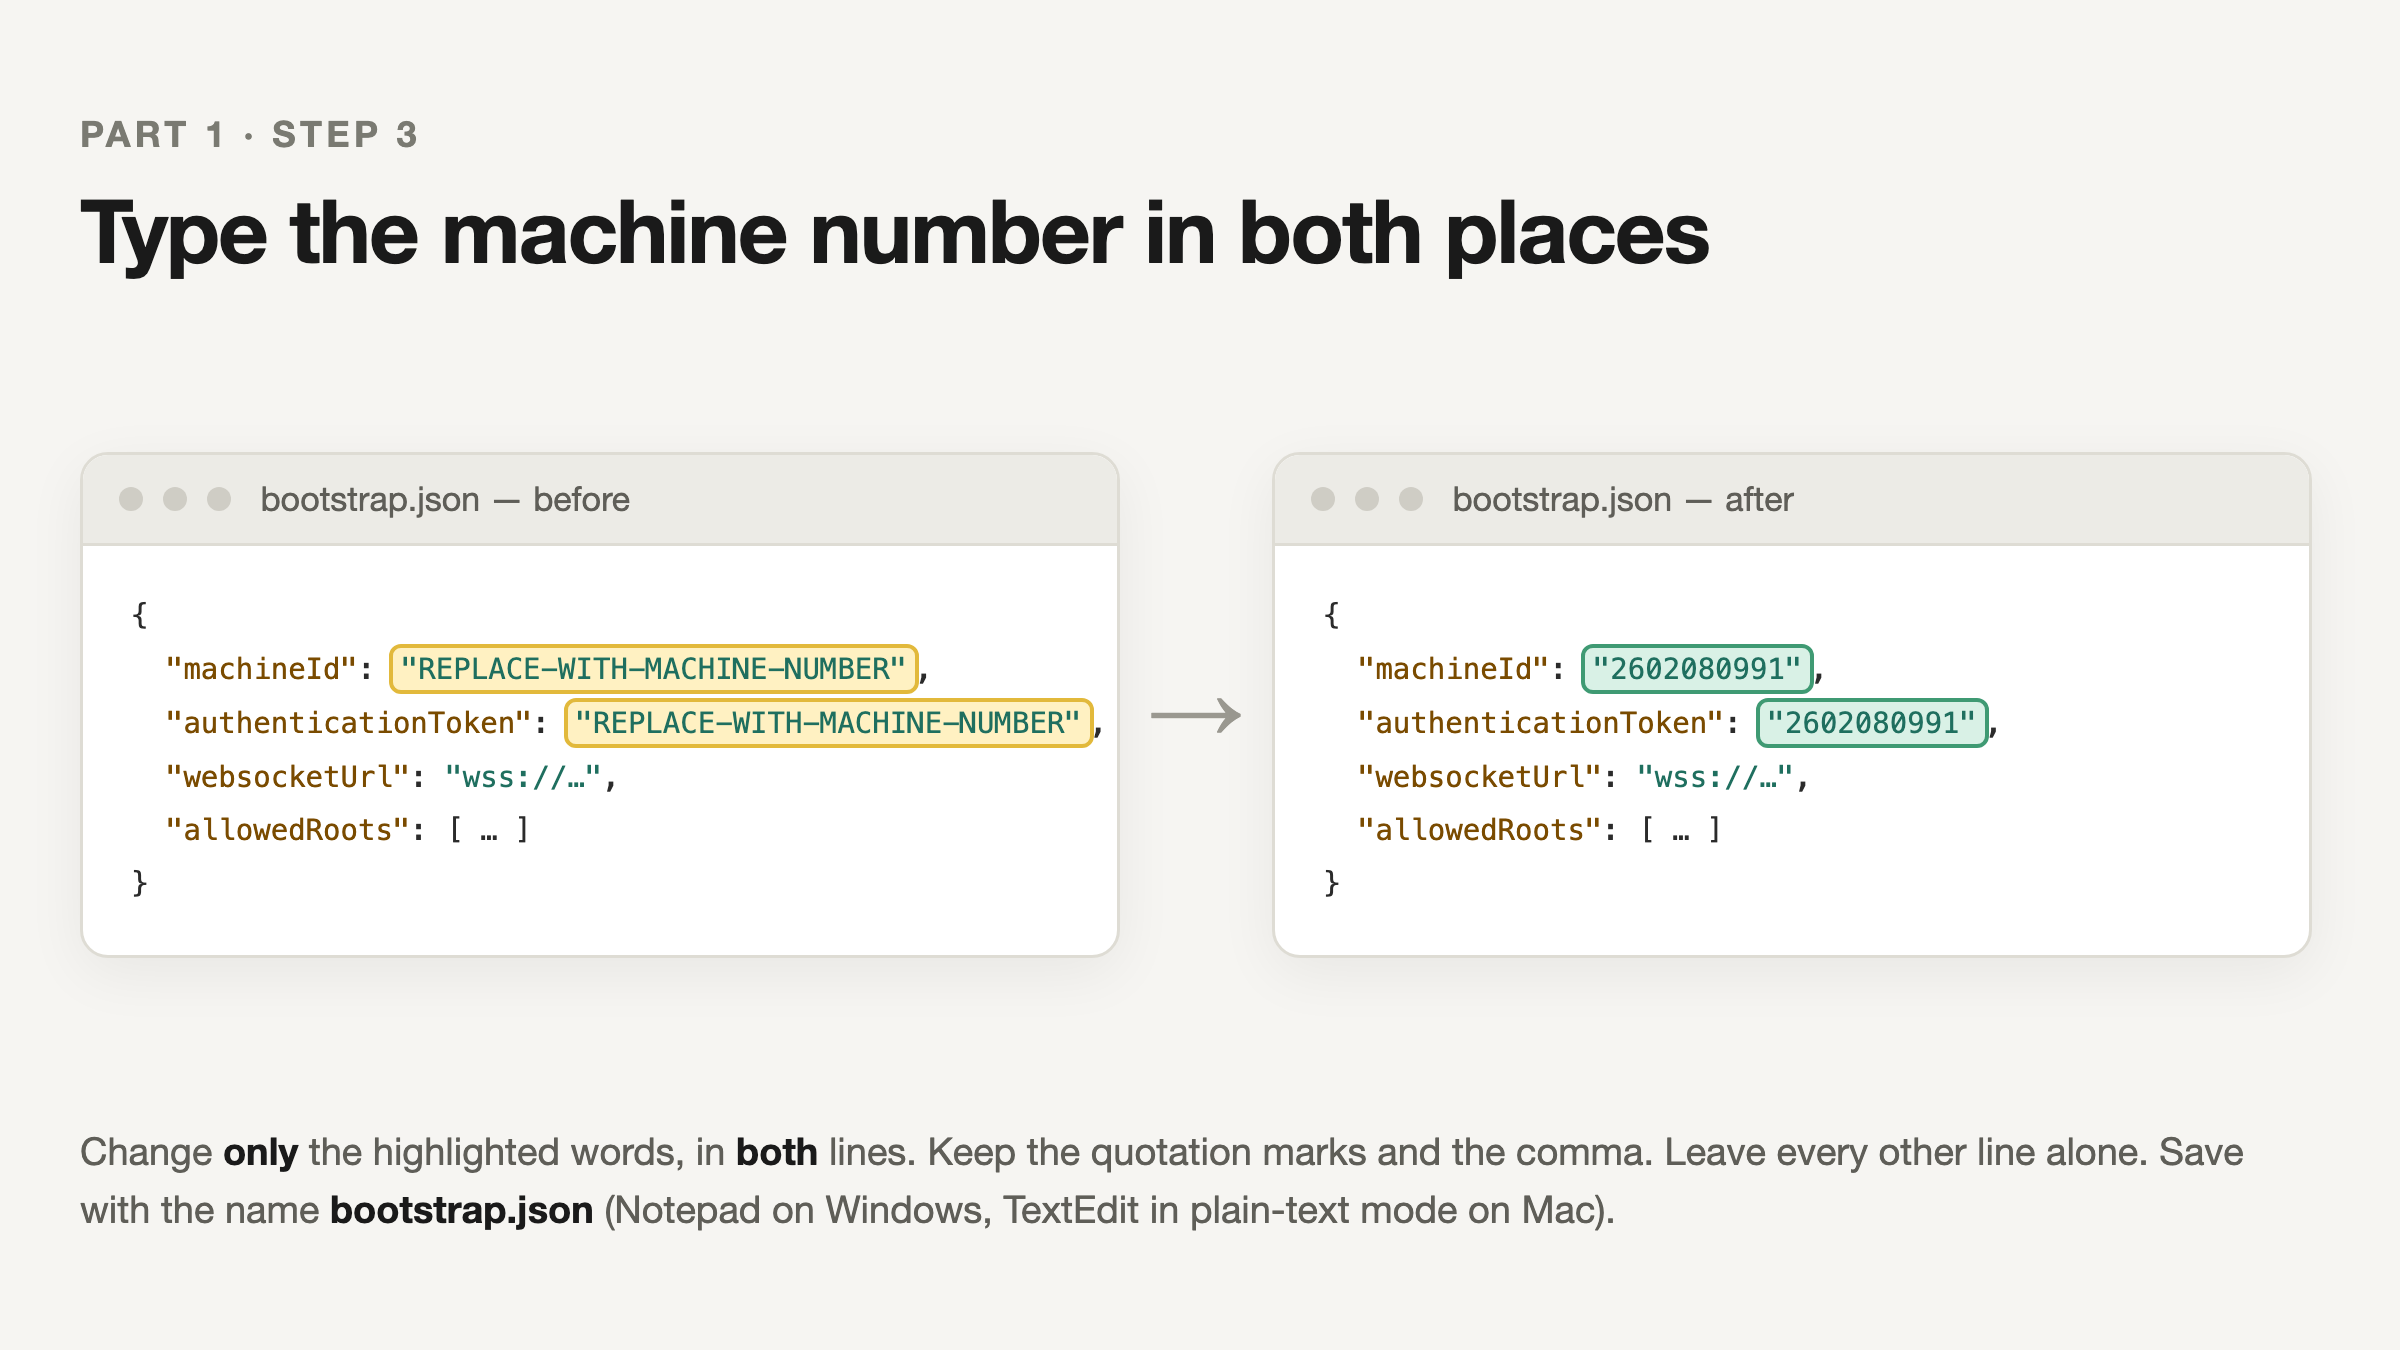
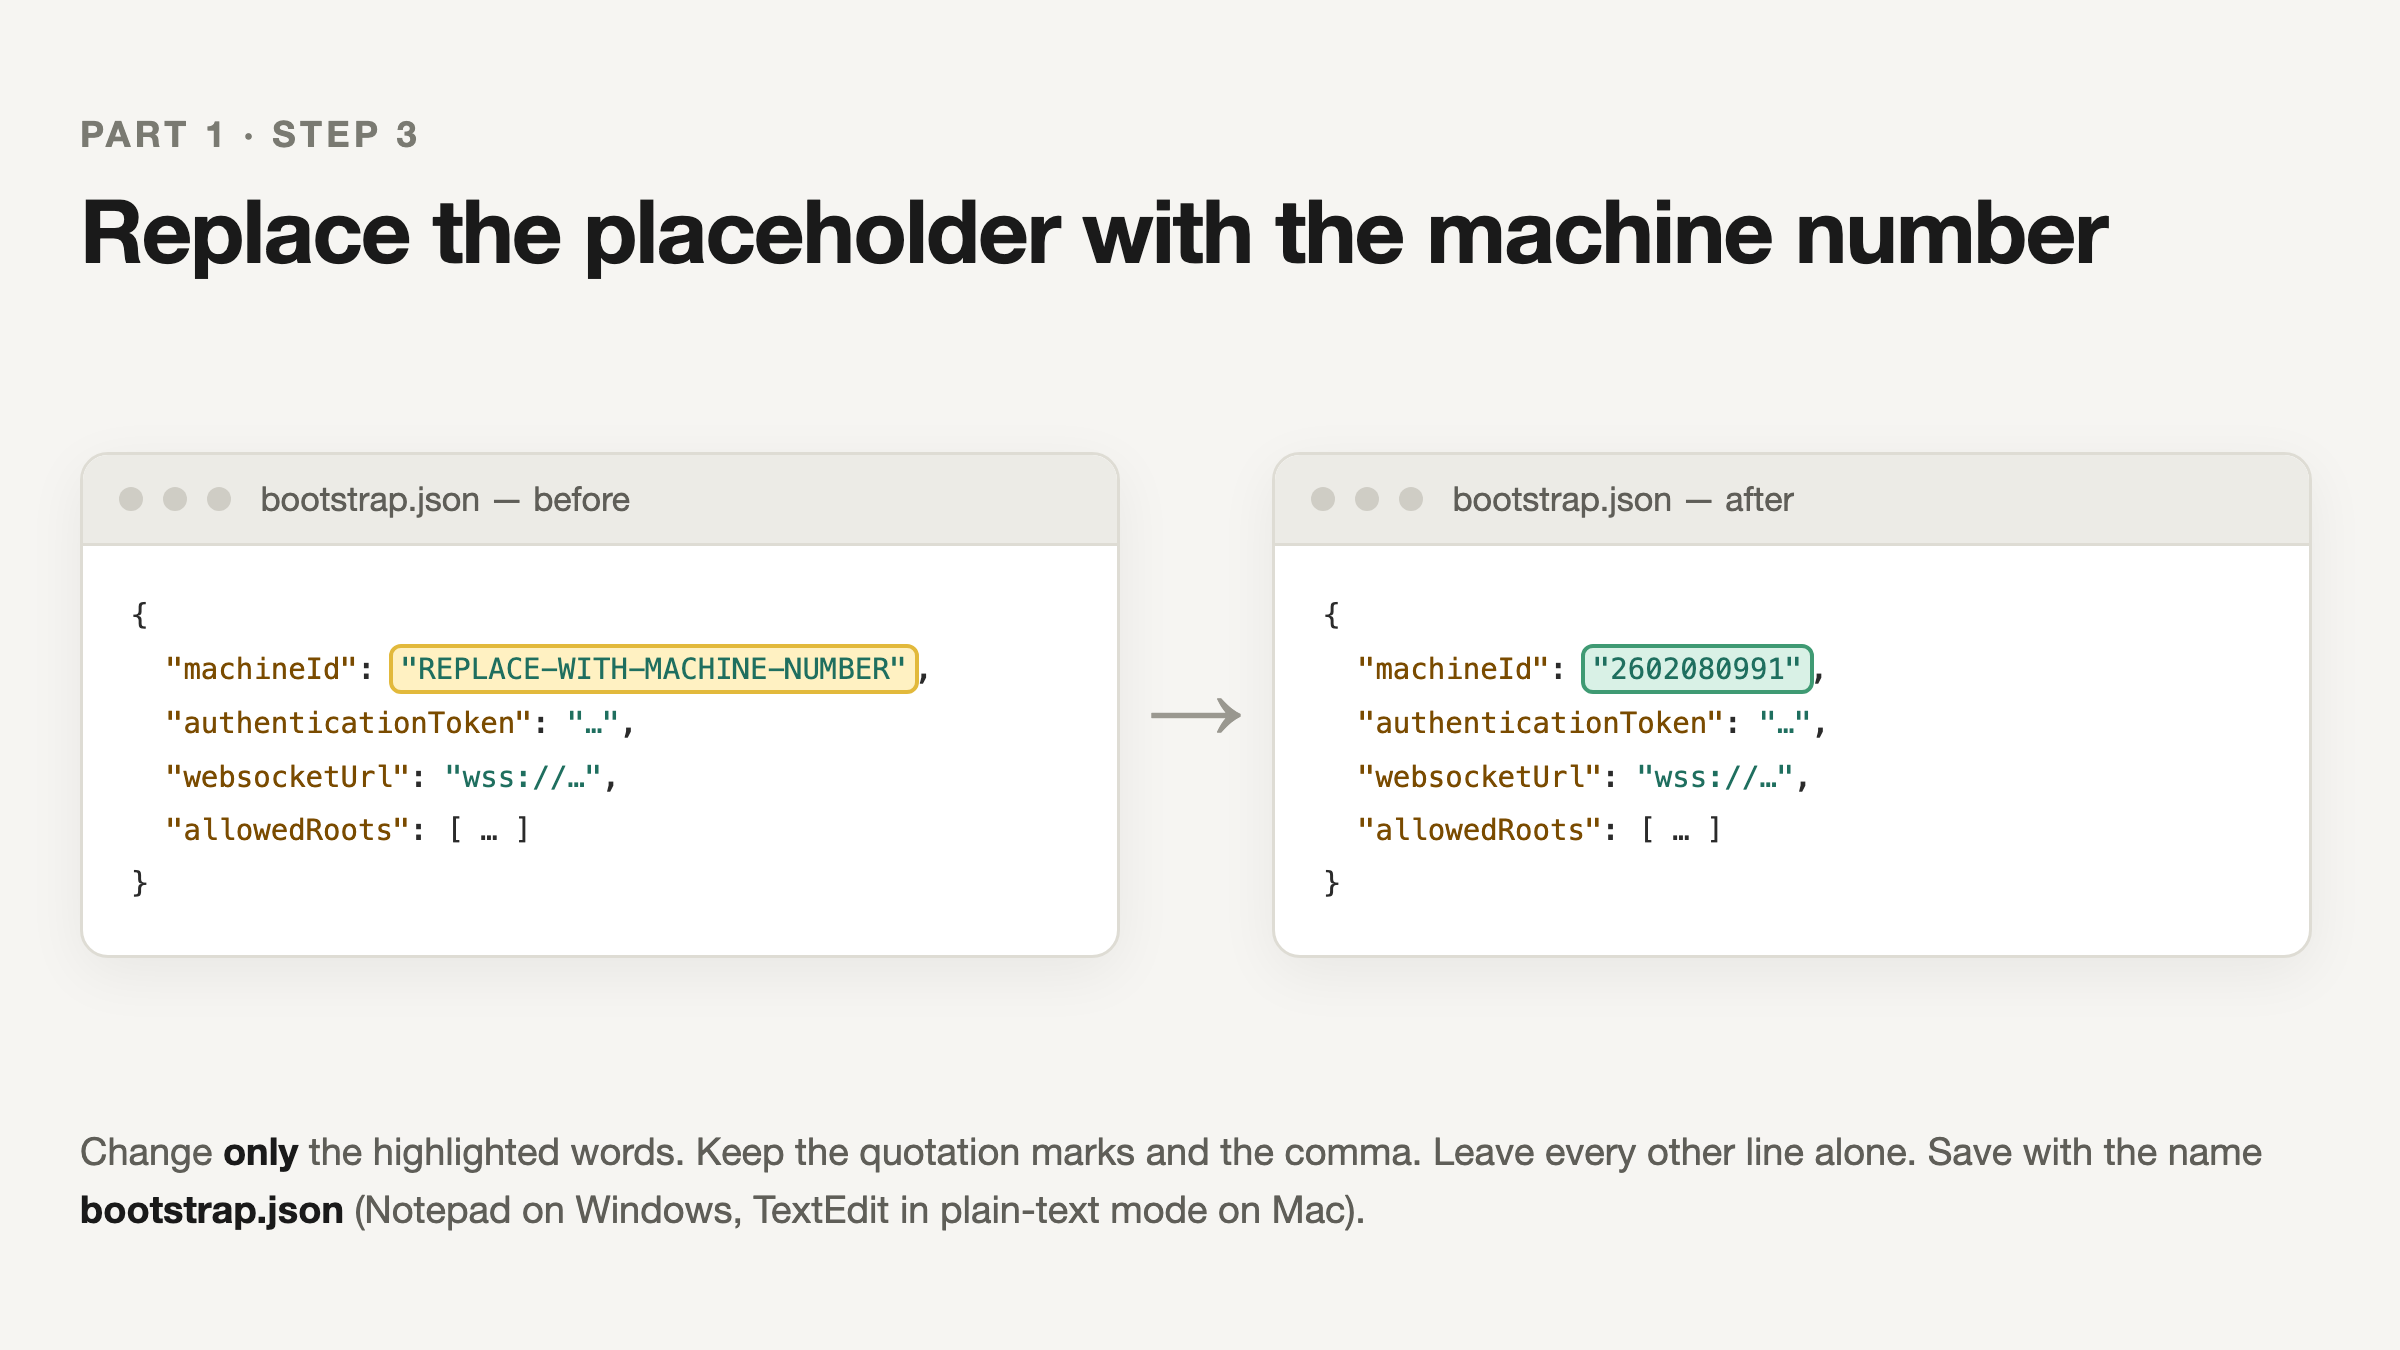
Use a fixed token placeholder so only the machine number is edited

diff --git a/README.md b/README.md
@@ -44,21 +44,17 @@ Open `bootstrap.json` **from the USB drive** in a plain text editor:
 - **Windows:** right-click the file → **Open with** → **Notepad**.
 - **Mac:** right-click the file → **Open With** → **TextEdit**. If TextEdit shows a formatting toolbar, choose **Format → Make Plain Text** first.
 
-The words `REPLACE-WITH-MACHINE-NUMBER` appear **twice**, on these two lines:
+Find this line:
 
 ```
 "machineId": "REPLACE-WITH-MACHINE-NUMBER",
-"authenticationToken": "REPLACE-WITH-MACHINE-NUMBER",
 ```
 
-Replace those words with the machine's number in **both** places. Keep the quotation marks. For machine 2602080991 the two lines become:
+Replace only the words `REPLACE-WITH-MACHINE-NUMBER` with the machine's number. Keep the quotation marks. For machine 2602080991 the line becomes:
 
 ```
 "machineId": "2602080991",
-"authenticationToken": "2602080991",
 ```
-
-Tip: use **Edit → Replace** (Windows: Ctrl+H, Mac: Cmd+Option+F) to change both at once.
 
 Do not change anything else in the file. Save it, keeping the name `bootstrap.json`.
 
